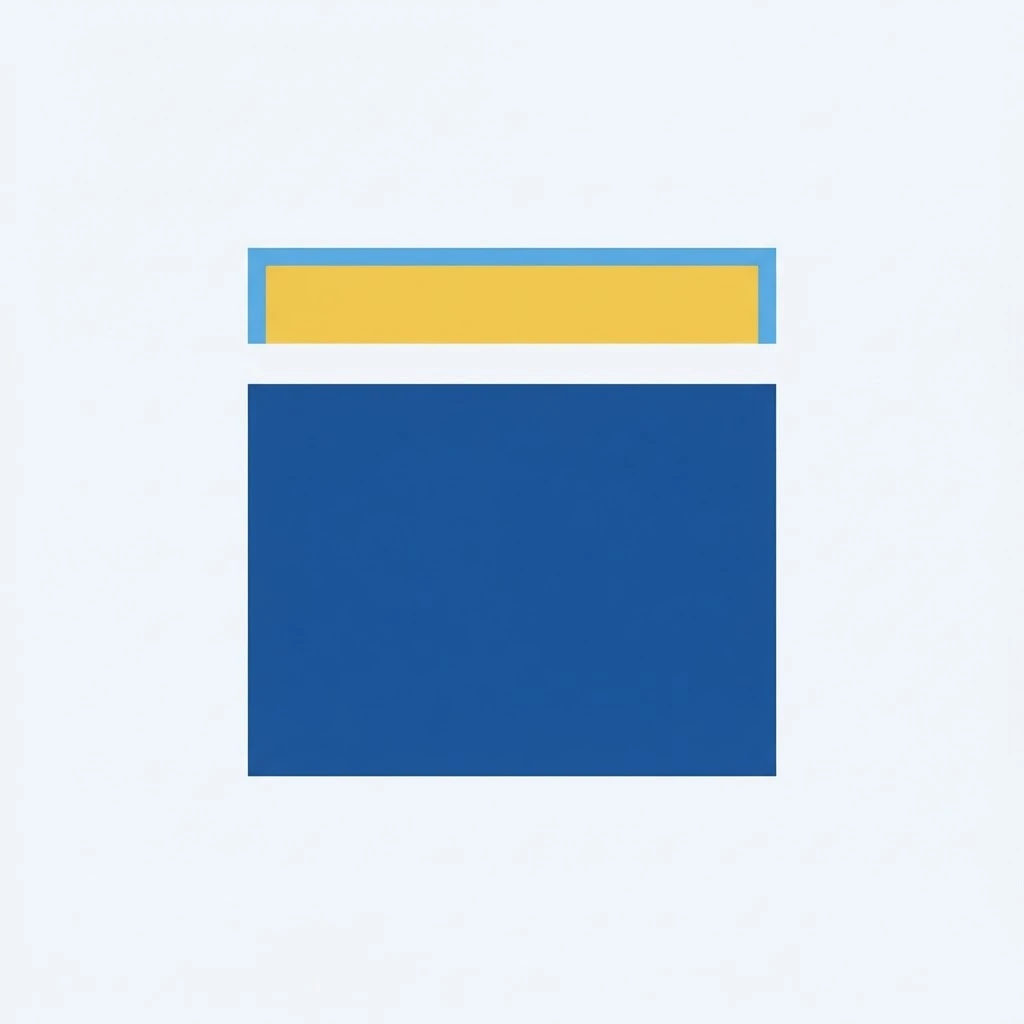
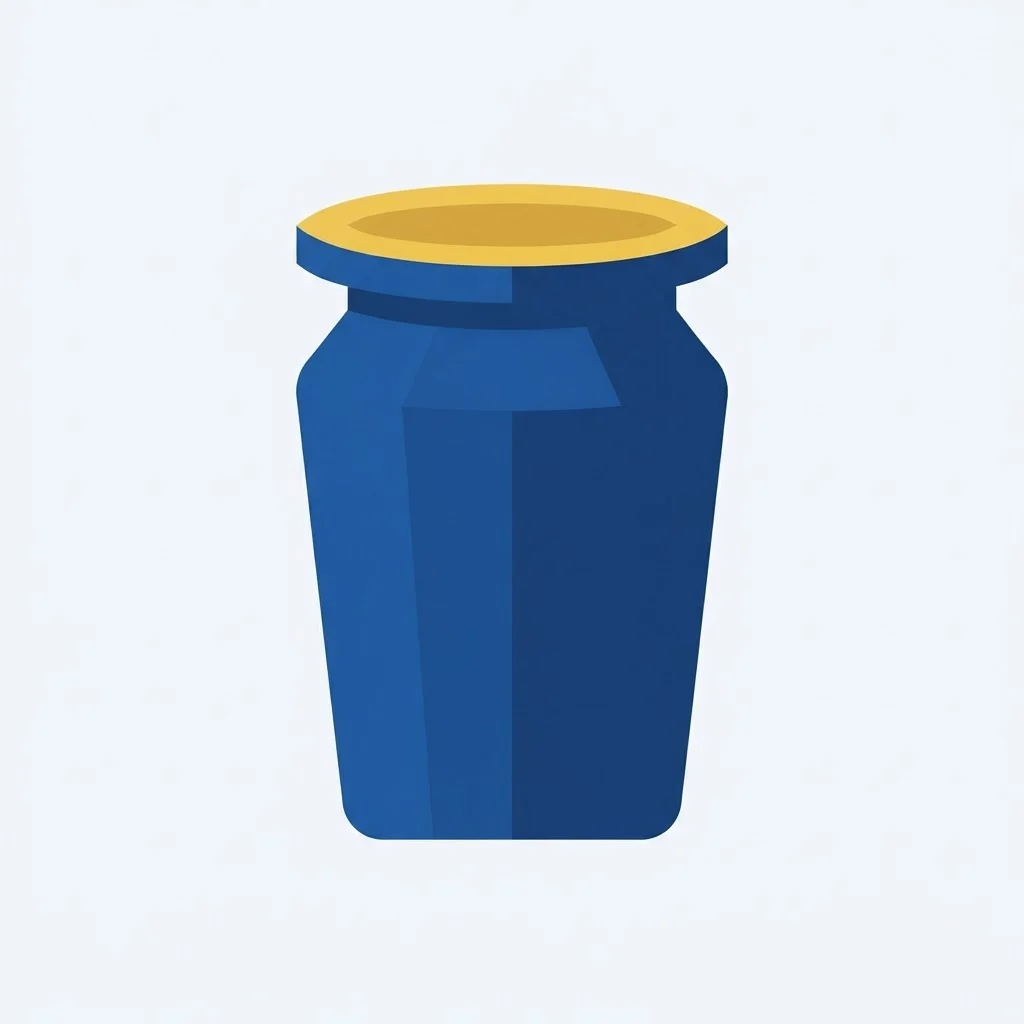
Replace the Holiness tile with the vessel, and record why the first two failed
Third attempt, and the first one that says anything. A navy jar with a gold rim
reads as an object at 80px the way the rest of the set does, and its silhouette
is distinct from both the gem and the offering bowl, which were the two it could
plausibly have collided with.

The two that did not work are now written into the doc, because the reason
generalises: a navy block with a gold bar above it read as a piece of user
interface, and five bars with the middle one raised read as a bar chart. That
second prompt also contradicted itself — bars "standing on a common baseline"
cannot also be "lifted clear above the line", so the generator split the
difference and neither idea landed.

What fixed it was giving up on abstract geometry. Every tile in this set that
works is a recognisable thing; both failures were pure shapes.

Twelve images, 171 KB. 145 tests still passing.

Changed region(s): [[0.2188, 0.1562, 0.7812, 0.8438]]

diff --git a/docs/core-value-image-prompts.md b/docs/core-value-image-prompts.md
@@ -79,6 +79,21 @@ same traps apply to any new subject added later:
 The pattern: describe the shape precisely enough that a wrong reading is not
 available, and say what you do **not** want when a near-miss is plausible.
 
+Holiness then took two further attempts, and the reason is worth keeping:
+
+- A navy block with a gold bar lifted above it was accurate but read as a piece
+  of user interface.
+- Five bars with the middle one raised and gold read as a bar chart. That prompt
+  also contradicted itself — it asked for bars "standing on a common baseline"
+  **and** for one "lifted clear above the line", so the generator split the
+  difference and neither idea landed.
+
+What finally worked was abandoning abstract geometry for a recognisable object.
+**Every tile in this set that works is a thing** — a megaphone, a book, a gem, a
+compass, a flame, a bowl, a balance, a building, footprints. The two that failed
+were pure shapes. When a value resists an obvious object, keep looking for one
+rather than retreating into rectangles.
+
 ---
 
 ## STYLE BLOCK
@@ -143,10 +158,11 @@ across it, the northward point in warm gold. Geometric and symmetrical.
 
 ### 06 — Holiness
 ```
-SUBJECT: A solid deep navy rectangular block seen square on, with one clean
-horizontal segment lifted clear of it and floating just above, that lifted
-segment in warm gold with a sky blue edge. Set apart — literally separated out
-and raised. Two shapes only, flat, no perspective.
+SUBJECT: A tall narrow jar with a wide flat rim and a gently tapering body,
+standing upright, in deep navy, seen square on. The inside of its mouth and a
+clean band around the rim are warm gold, as though the jar is holding light.
+No handles, no stem, no base plinth, no contents, no lid. One object, centred,
+filling most of the frame.
 ```
 
 ### 07 — Consistent Bible Teaching
